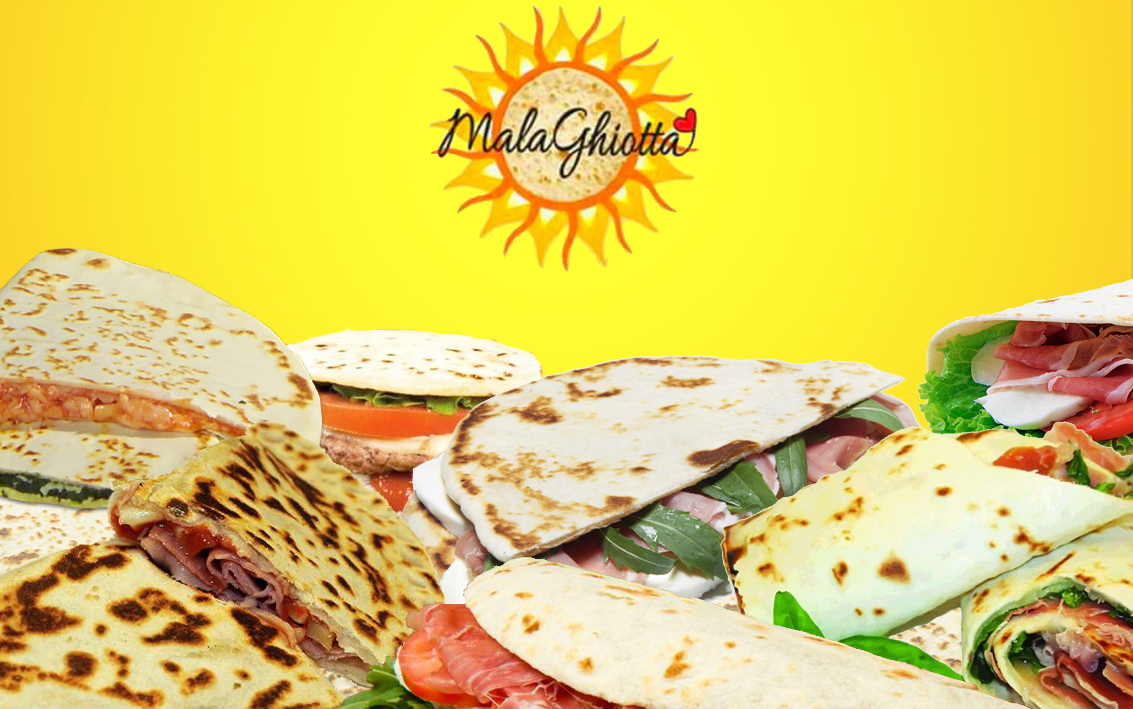
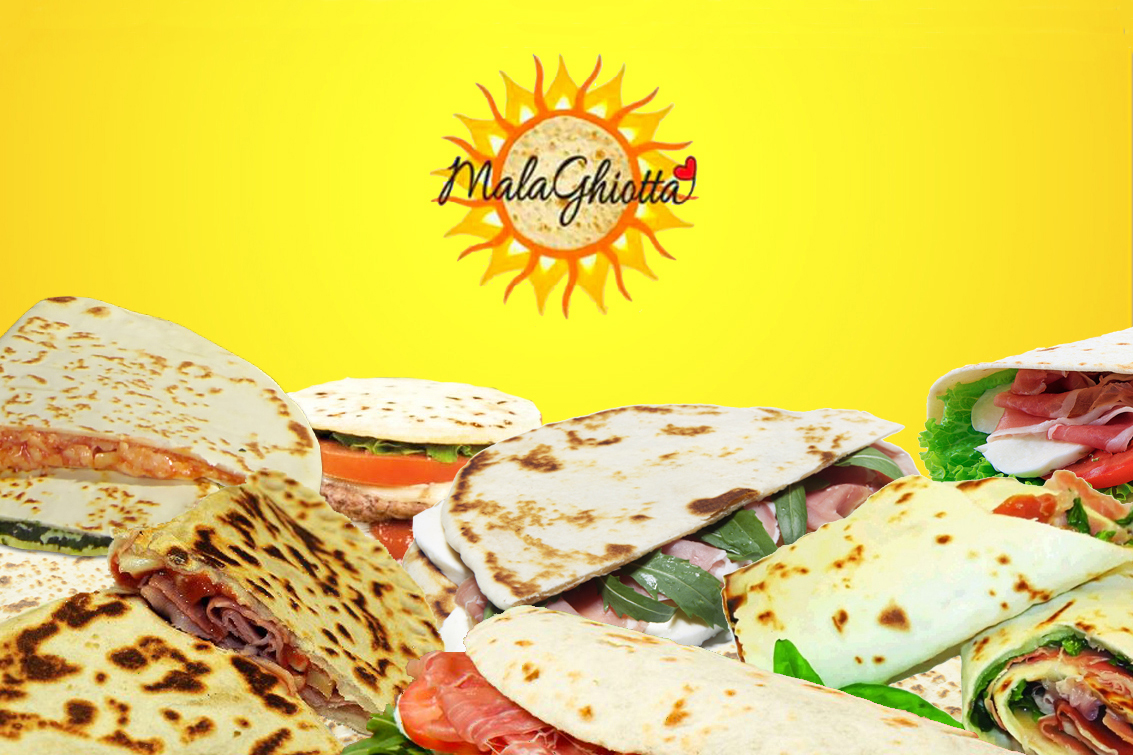
Homepage image moved to background, page layout rearranged

diff --git a/src/html/homepage/home.html b/src/html/homepage/home.html
@@ -95,18 +95,14 @@
   </div>
 </nav>
 
-<div class="with-bg-size">
-  <img class="centered-and-cropped" src="../../../img/Background.jpg" alt="Immagine di presentazione">
-</div>
-
 <div class="container text-center">
   <div class="row">
     <div class="col-sm-8">
-		<h2>Dove Siamo</h2>
-		<iframe src="https://www.google.com/maps/embed?pb=!1m18!1m12!1m3!1d2606.263526976612!2d12.24132431551359!3d44.13838607910776!2m3!1f0!2f0!3f0!3m2!1i1024!2i768!4f13.1!3m3!1m2!1s0x132ca4c89d21b735%3A0x3d6c5c21ea807c37!2s%22La+Malaghiotta%22!5e1!3m2!1sen!2sit!4v1514203490102"
-		width=100% height=300px frameborder="0" allowfullscreen></iframe>
-		<p>Piazza Fabbri 15 davanti alla biblioteca Malatestiana 47521 Cesena</p>
-	</div>
+  		<h2>Dove Siamo</h2>
+  		<iframe src="https://www.google.com/maps/embed?pb=!1m18!1m12!1m3!1d2606.263526976612!2d12.24132431551359!3d44.13838607910776!2m3!1f0!2f0!3f0!3m2!1i1024!2i768!4f13.1!3m3!1m2!1s0x132ca4c89d21b735%3A0x3d6c5c21ea807c37!2s%22La+Malaghiotta%22!5e1!3m2!1sen!2sit!4v1514203490102"
+  		width=100% height=300px frameborder="0" allowfullscreen></iframe>
+  		<p>Piazza Fabbri 15 davanti alla biblioteca Malatestiana 47521 Cesena</p>
+	  </div>
 
     <div class="col-sm-4">
 		<h2>Orari</h2>

diff --git a/src/css/homepage.css b/src/css/homepage.css
@@ -1,5 +1,9 @@
 body {
-	background-color: rgb(180,180,255);
+	background-image: url("../../img/Background.jpg");
+	background-size: cover;
+	background-position: top center;
+	background-repeat: no-repeat;
+	background-attachment: fixed;
 }
 
 /* Remove the navbar's default margin-bottom and rounded borders */
@@ -8,19 +12,9 @@ body {
 	border-radius: 0px;
 }
 
-.with-bg-size {
-  width: 100%; /* Set width to 100% */
-  height: auto;
-	background-position: center;
-	background-size: cover;
+nav + div {
+	margin-top: 325px;
 }
-
-.centered-and-cropped {
-	width: 100%;
-	object-fit: cover;
-}
-
-
 
 iframe {
 	frameborder="0";
